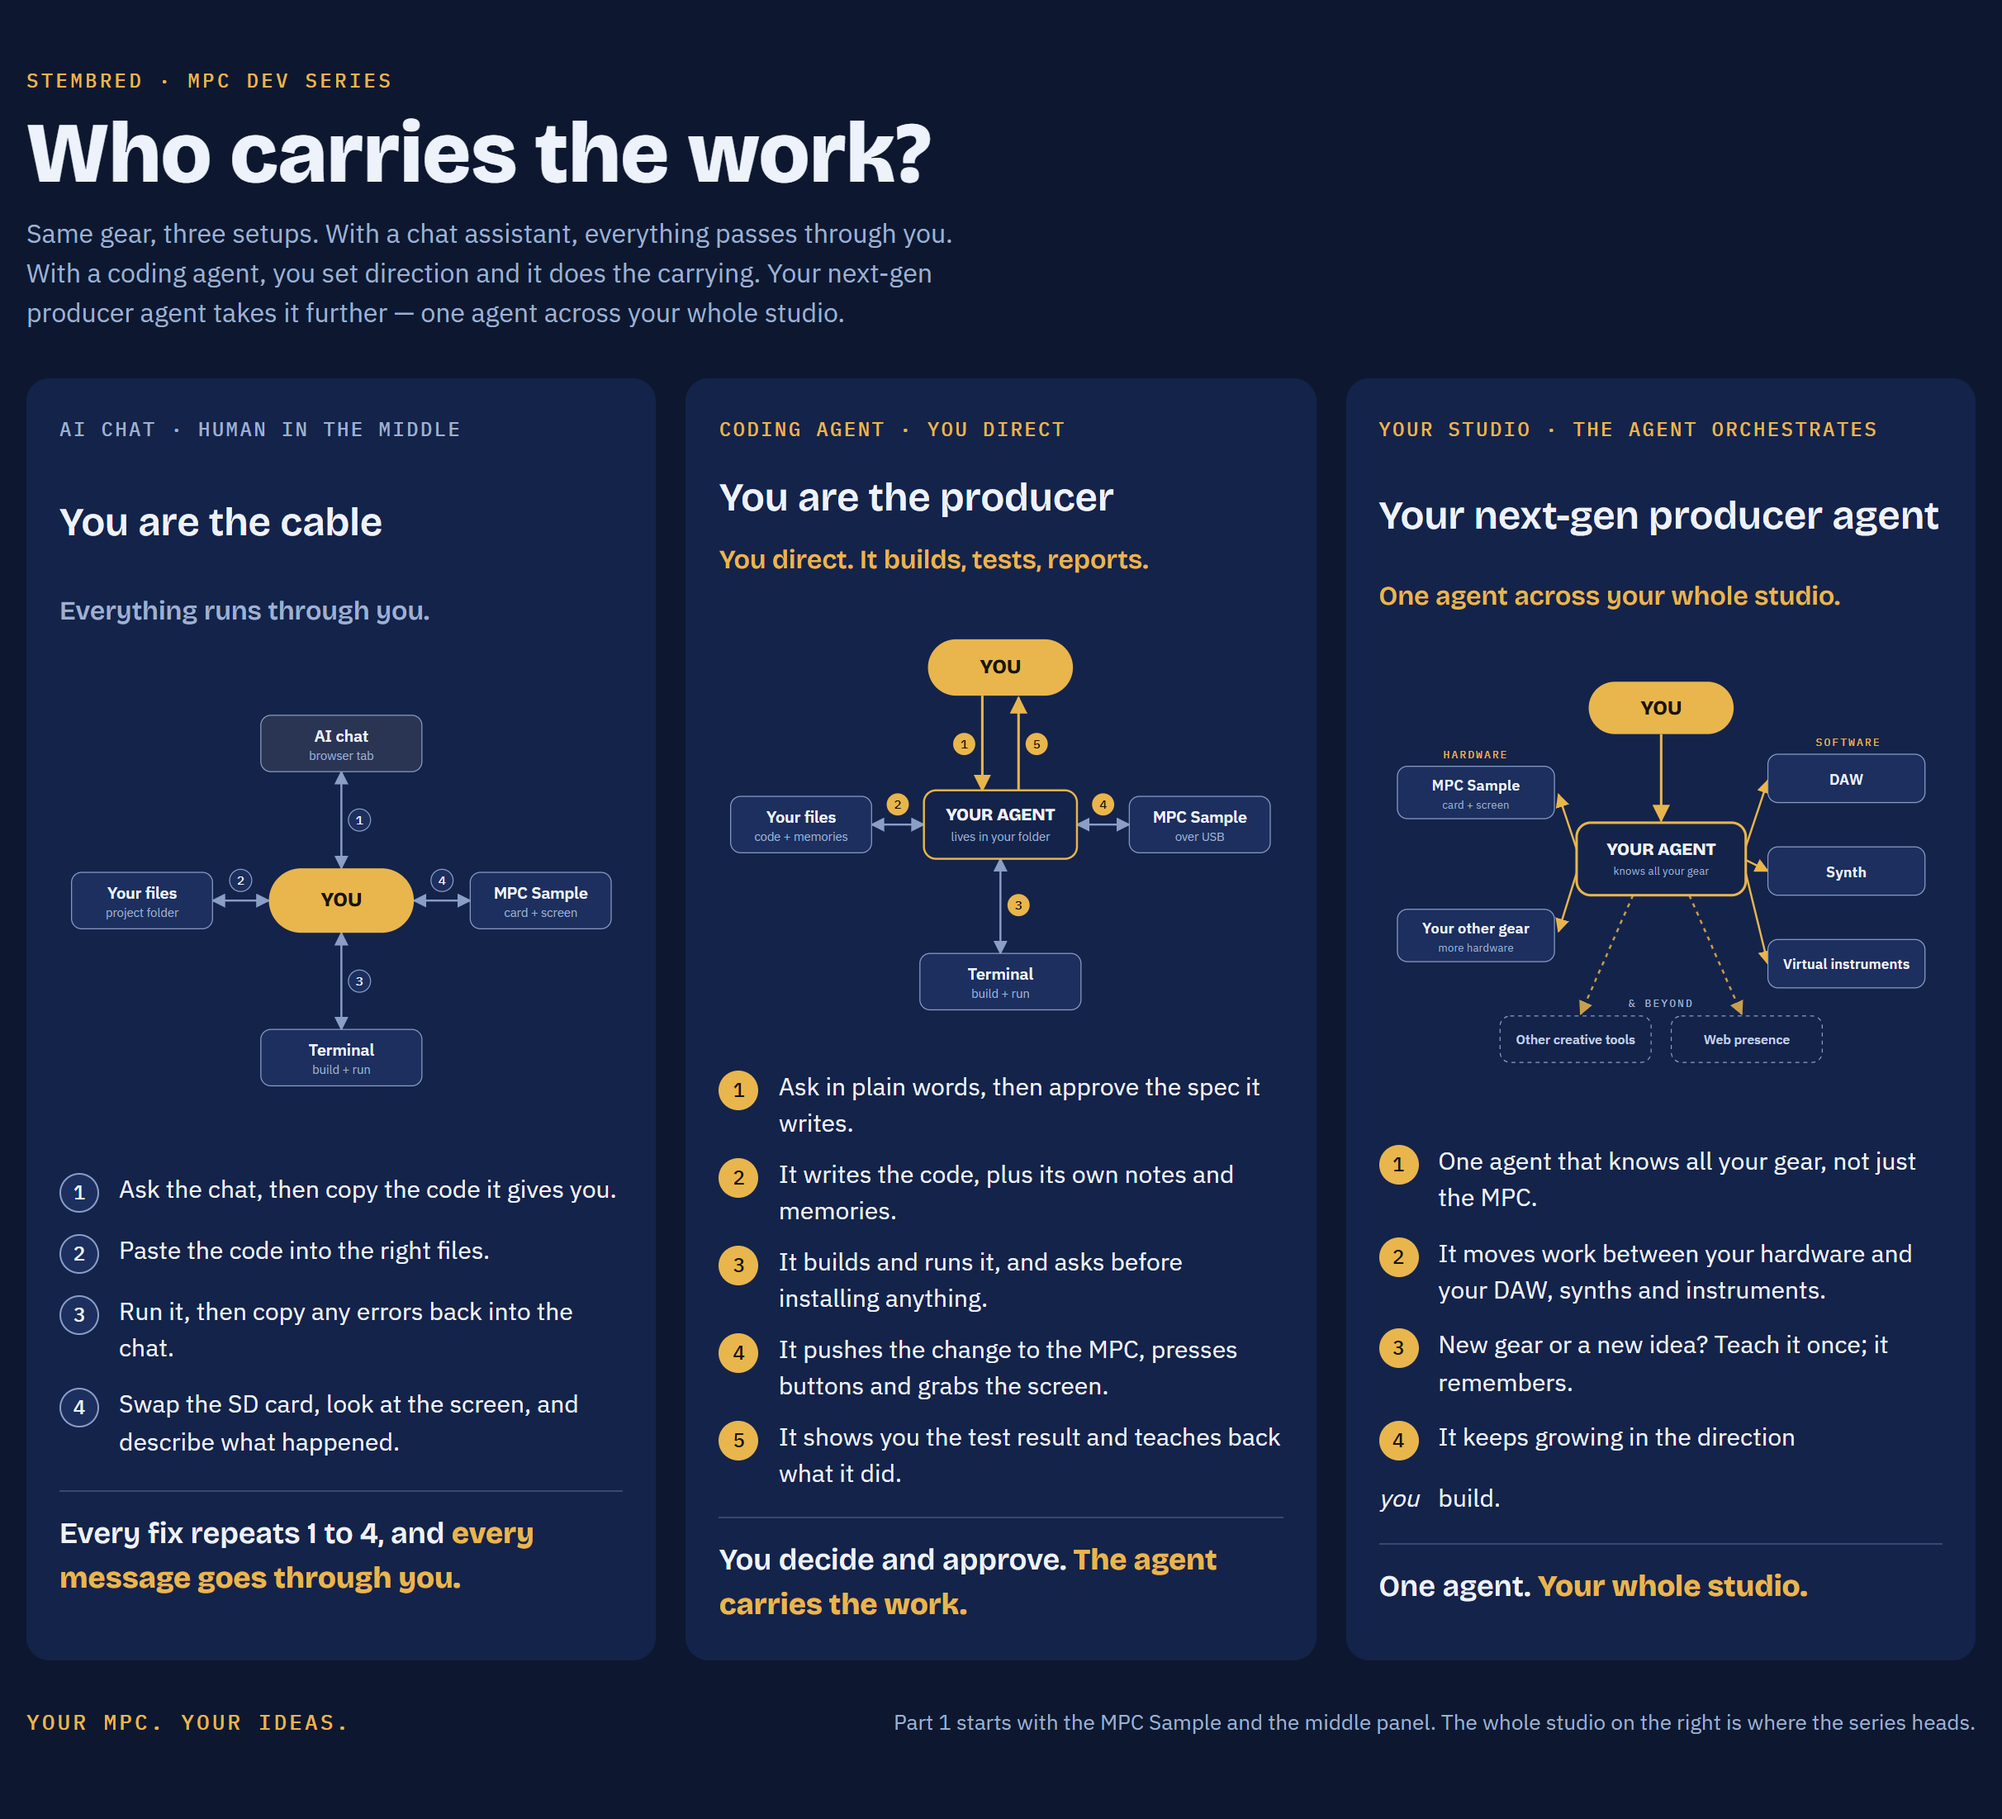
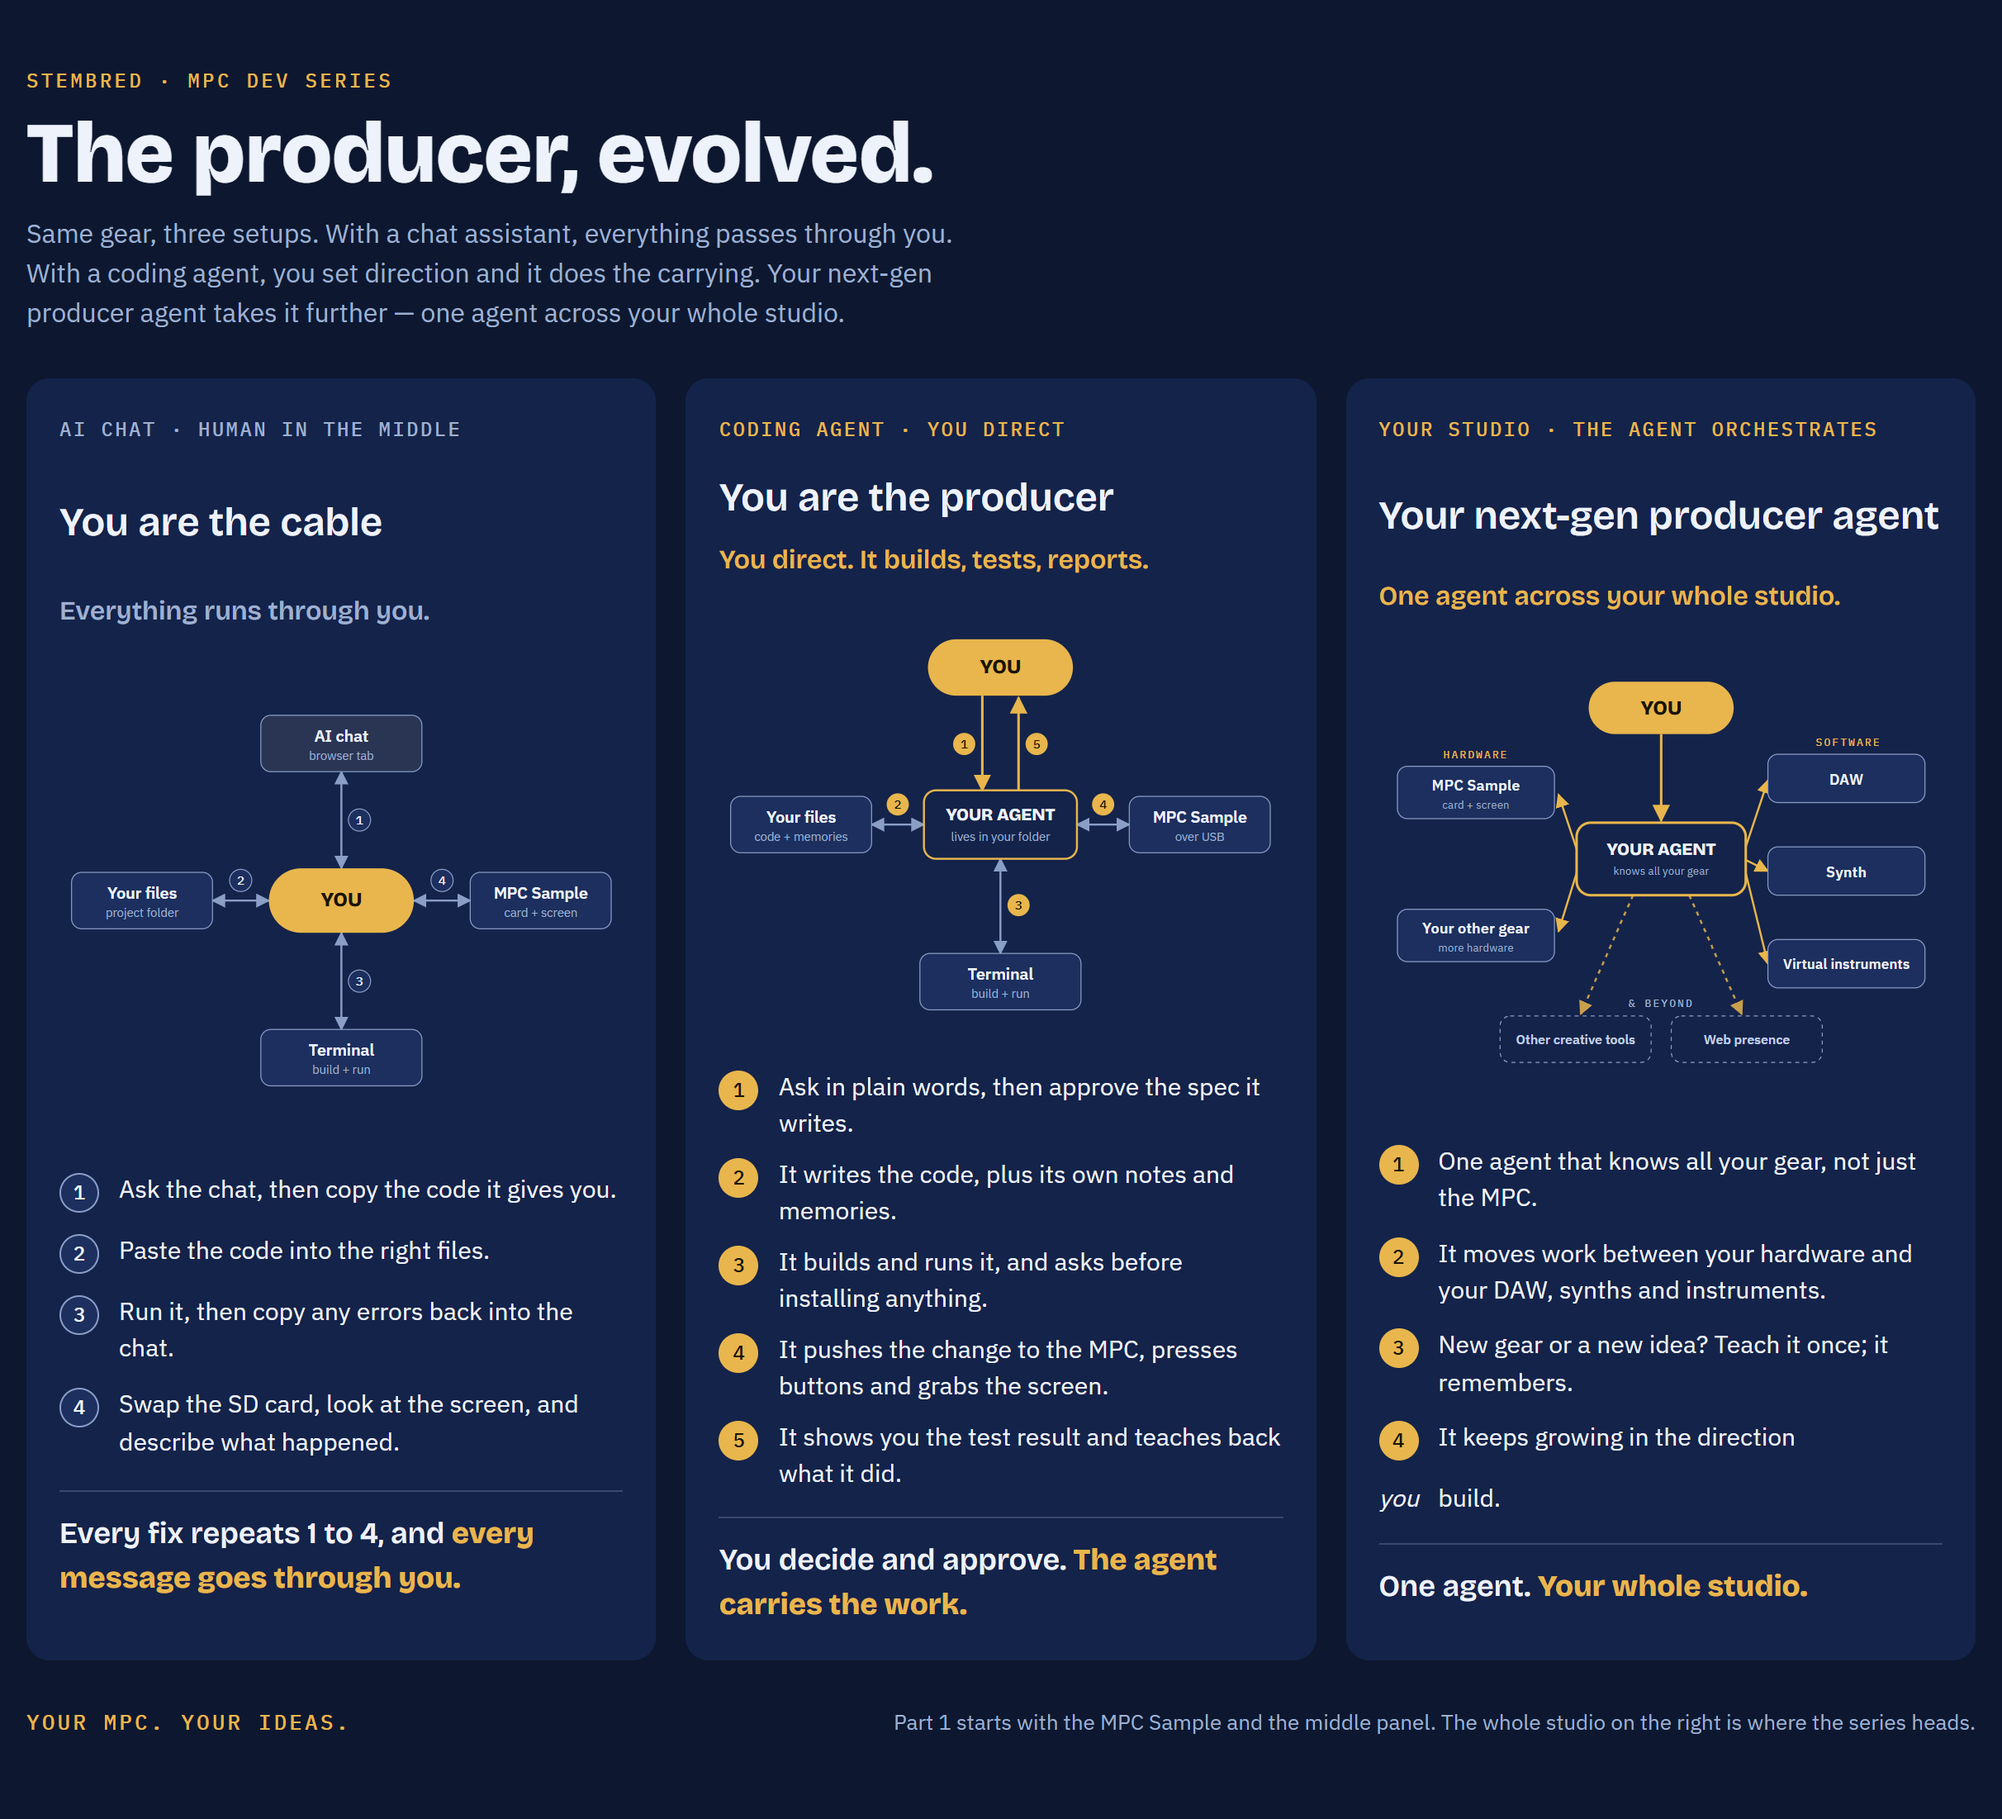
Comparison picture: headline -> 'The producer, evolved.'

Changed region(s): [[0.0, 0.0618, 0.4641, 0.1235]]

diff --git a/images/src/chat-vs-agent.html b/images/src/chat-vs-agent.html
@@ -1,4 +1,4 @@
-<title>Chat vs Coding Agent</title>
+<title>The producer, evolved</title>
 <meta name="claude:viewport-fit-sides" content="cover">
 <link rel="stylesheet" href="https://fonts.googleapis.com/css2?family=Bricolage+Grotesque:opsz,wght@12..96,600;12..96,800&family=IBM+Plex+Sans:wght@400;500;600&family=IBM+Plex+Mono:wght@500&display=swap">
 <style>
@@ -46,7 +46,7 @@ footer .brand { font-family: var(--mono); letter-spacing: .12em; text-transform:
 <div class="wrap">
   <header>
     <div class="eyebrow">StemBred · MPC dev series</div>
-    <h1>Who carries the work?</h1>
+    <h1>The producer, evolved.</h1>
     <p class="lede">Same gear, three setups. With a chat assistant, everything passes through you. With a coding agent, you set direction and it does the carrying. Your next-gen producer agent takes it further — one agent across your whole studio.</p>
   </header>
 

diff --git a/README.md b/README.md
@@ -15,7 +15,7 @@ New here from a video? Welcome. Everything the videos ask you to grab is below.
 **[Open seed.md](seed.md)**, then click the **Download raw file** button (the ⬇ icon at the top right of the file).
 Save it into your project folder (see *Set up* below). Do the same with **[mpc-sample-proven.md](mpc-sample-proven.md)**, but put that one in your `inputs` folder. It's what our agent already proved on the MPC Sample, so yours doesn't start from zero.
 
-![Who carries the work? Three setups: you as the cable, you directing one agent, and your next-gen producer agent across your whole rig](images/chat-vs-agent.png)
+![The producer, evolved — Three setups: you as the cable, you directing one agent, and your next-gen producer agent across your whole rig](images/chat-vs-agent.png)
 
 ## The idea
 - **You describe, your agent builds.** You say what you want in your own words. Your agent writes a short spec, you approve it, then it builds and tests it.
